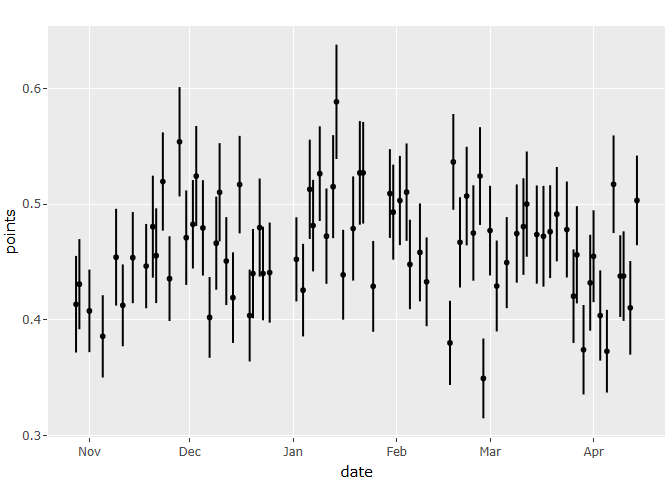
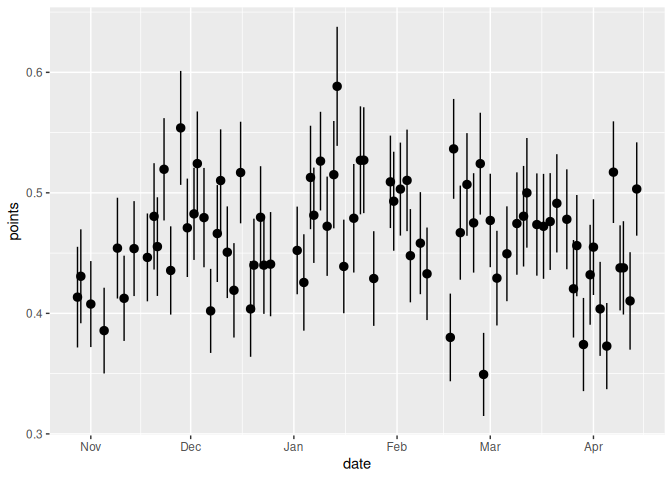
Re-build Rmarkdown files

diff --git a/README.html b/README.html
@@ -71,23 +71,15 @@ pre > code.sourceCode > span > a:first-child::before { text-decoration: underlin
 <script src="README_files/libs/bootstrap/bootstrap.min.js"></script>
 <link href="README_files/libs/bootstrap/bootstrap-icons.css" rel="stylesheet">
 <link href="README_files/libs/bootstrap/bootstrap-e7aef54abf3c3b600baac4692255d8cc.min.css" rel="stylesheet" append-hash="true" id="quarto-bootstrap" data-mode="light">
-<link href="README_files/libs/htmltools-fill-0.5.8.1/fill.css" rel="stylesheet">
-<script src="README_files/libs/htmlwidgets-1.6.4/htmlwidgets.js"></script>
-<script src="README_files/libs/plotly-binding-4.10.4/plotly.js"></script>
-<script src="README_files/libs/typedarray-0.1/typedarray.min.js"></script>
-<script src="README_files/libs/jquery-3.5.1/jquery.min.js"></script>
-<link href="README_files/libs/crosstalk-1.2.1/css/crosstalk.min.css" rel="stylesheet">
-<script src="README_files/libs/crosstalk-1.2.1/js/crosstalk.min.js"></script>
-<link href="README_files/libs/plotly-htmlwidgets-css-2.11.1/plotly-htmlwidgets.css" rel="stylesheet">
-<script src="README_files/libs/plotly-main-2.11.1/plotly-latest.min.js"></script>
 
 
 </head>
 
-<body class="fullcontent quarto-light">
+<body class="quarto-light">
 
 <div id="quarto-content" class="page-columns page-rows-contents page-layout-article">
-
+<div id="quarto-margin-sidebar" class="sidebar margin-sidebar">
+<div class="quarto-alternate-formats"><h2>Other Formats</h2><ul><li><a href="README.md"><i class="bi bi-file-code"></i>CommonMark</a></li><li><a href="README.pdf"><i class="bi bi-file-pdf"></i>PDF</a></li></ul></div></div>
 <main class="content" id="quarto-document-content">
 
 <header id="title-block-header" class="quarto-title-block default">
@@ -325,10 +317,13 @@ This warning is displayed once every 8 hours.</code></pre>
 <span id="cb9-6"><a href="#cb9-6" aria-hidden="true" tabindex="-1"></a>    <span class="fu">stat_summary</span>() <span class="sc">+</span></span>
 <span id="cb9-7"><a href="#cb9-7" aria-hidden="true" tabindex="-1"></a>    <span class="fu">scale_x_date</span>()</span>
 <span id="cb9-8"><a href="#cb9-8" aria-hidden="true" tabindex="-1"></a></span>
-<span id="cb9-9"><a href="#cb9-9" aria-hidden="true" tabindex="-1"></a><span class="fu">ggplotly</span>(p)</span></code><button title="Copy to Clipboard" class="code-copy-button"><i class="bi"></i></button></pre></div>
+<span id="cb9-9"><a href="#cb9-9" aria-hidden="true" tabindex="-1"></a>p</span></code><button title="Copy to Clipboard" class="code-copy-button"><i class="bi"></i></button></pre></div>
 <div class="cell-output-display">
-<div class="plotly html-widget html-fill-item" id="htmlwidget-334b650e542cd5a31a3e" style="width:100%;height:464px;"></div>
-<script type="application/json" data-for="htmlwidget-334b650e542cd5a31a3e">{"x":{"data":[{"x":[14180,14181,14184,14188,14192,14194,14197,14201,14203,14204,14206,14208,14211,14213,14215,14216,14218,14220,14222,14223,14225,14227,14229,14232,14233,14235,14236,14238,14246,14248,14250,14251,14253,14255,14257,14258,14260,14263,14265,14266,14269,14274,14275,14277,14279,14280,14283,14285,14292,14293,14295,14297,14299,14301,14302,14304,14306,14309,14312,14314,14315,14318,14320,14322,14324,14327,14329,14330,14332,14334,14335,14337,14339,14341,14343,14344,14346,14348],"y":[0.41346153846153844,0.43076923076923079,0.40770791075050711,0.38568588469184889,0.45411764705882351,0.41247484909456739,0.45372460496613998,0.44642857142857145,0.48048780487804876,0.45539906103286387,0.51954022988505744,0.43558282208588955,0.55388471177944865,0.47098214285714285,0.48254620123203285,0.52427184466019416,0.47945205479452052,0.4020408163265306,0.4662309368191721,0.51020408163265307,0.45073375262054505,0.4191343963553531,0.5168539325842697,0.40366972477064222,0.44,0.47971360381861577,0.44,0.44080604534005036,0.45222929936305734,0.42562929061784899,0.51276102088167053,0.48140043763676149,0.52631578947368418,0.47228381374722839,0.51507537688442206,0.58839050131926118,0.43892339544513459,0.47890818858560796,0.52699228791773778,0.52709359605911332,0.42890442890442892,0.50912778904665312,0.49305555555555558,0.50310559006211175,0.51034482758620692,0.44785276073619634,0.45823389021479716,0.43283582089552236,0.38004246284501064,0.53648068669527893,0.46694214876033058,0.50694444444444442,0.47505938242280282,0.52422907488986781,0.34931506849315069,0.47708333333333336,0.42922374429223742,0.449438202247191,0.47453703703703703,0.48058252427184467,0.5,0.47368421052631576,0.47222222222222221,0.47619047619047616,0.49130434782608695,0.47804878048780486,0.42039800995024873,0.45622119815668205,0.37413394919168591,0.43203883495145629,0.45495495495495497,0.40371229698375871,0.37284482758620691,0.51716247139588101,0.43775100401606426,0.43776824034334766,0.41031941031941033,0.50318471337579618],"text":["date: 2008-10-28<br />points: 0.4134615","date: 2008-10-29<br />points: 0.4307692","date: 2008-11-01<br />points: 0.4077079","date: 2008-11-05<br />points: 0.3856859","date: 2008-11-09<br />points: 0.4541176","date: 2008-11-11<br />points: 0.4124748","date: 2008-11-14<br />points: 0.4537246","date: 2008-11-18<br />points: 0.4464286","date: 2008-11-20<br />points: 0.4804878","date: 2008-11-21<br />points: 0.4553991","date: 2008-11-23<br />points: 0.5195402","date: 2008-11-25<br />points: 0.4355828","date: 2008-11-28<br />points: 0.5538847","date: 2008-11-30<br />points: 0.4709821","date: 2008-12-02<br />points: 0.4825462","date: 2008-12-03<br />points: 0.5242718","date: 2008-12-05<br />points: 0.4794521","date: 2008-12-07<br />points: 0.4020408","date: 2008-12-09<br />points: 0.4662309","date: 2008-12-10<br />points: 0.5102041","date: 2008-12-12<br />points: 0.4507338","date: 2008-12-14<br />points: 0.4191344","date: 2008-12-16<br />points: 0.5168539","date: 2008-12-19<br />points: 0.4036697","date: 2008-12-20<br />points: 0.4400000","date: 2008-12-22<br />points: 0.4797136","date: 2008-12-23<br />points: 0.4400000","date: 2008-12-25<br />points: 0.4408060","date: 2009-01-02<br />points: 0.4522293","date: 2009-01-04<br />points: 0.4256293","date: 2009-01-06<br />points: 0.5127610","date: 2009-01-07<br />points: 0.4814004","date: 2009-01-09<br />points: 0.5263158","date: 2009-01-11<br />points: 0.4722838","date: 2009-01-13<br />points: 0.5150754","date: 2009-01-14<br />points: 0.5883905","date: 2009-01-16<br />points: 0.4389234","date: 2009-01-19<br />points: 0.4789082","date: 2009-01-21<br />points: 0.5269923","date: 2009-01-22<br />points: 0.5270936","date: 2009-01-25<br />points: 0.4289044","date: 2009-01-30<br />points: 0.5091278","date: 2009-01-31<br />points: 0.4930556","date: 2009-02-02<br />points: 0.5031056","date: 2009-02-04<br />points: 0.5103448","date: 2009-02-05<br />points: 0.4478528","date: 2009-02-08<br />points: 0.4582339","date: 2009-02-10<br />points: 0.4328358","date: 2009-02-17<br />points: 0.3800425","date: 2009-02-18<br />points: 0.5364807","date: 2009-02-20<br />points: 0.4669421","date: 2009-02-22<br />points: 0.5069444","date: 2009-02-24<br />points: 0.4750594","date: 2009-02-26<br />points: 0.5242291","date: 2009-02-27<br />points: 0.3493151","date: 2009-03-01<br />points: 0.4770833","date: 2009-03-03<br />points: 0.4292237","date: 2009-03-06<br />points: 0.4494382","date: 2009-03-09<br />points: 0.4745370","date: 2009-03-11<br />points: 0.4805825","date: 2009-03-12<br />points: 0.5000000","date: 2009-03-15<br />points: 0.4736842","date: 2009-03-17<br />points: 0.4722222","date: 2009-03-19<br />points: 0.4761905","date: 2009-03-21<br />points: 0.4913043","date: 2009-03-24<br />points: 0.4780488","date: 2009-03-26<br />points: 0.4203980","date: 2009-03-27<br />points: 0.4562212","date: 2009-03-29<br />points: 0.3741339","date: 2009-03-31<br />points: 0.4320388","date: 2009-04-01<br />points: 0.4549550","date: 2009-04-03<br />points: 0.4037123","date: 2009-04-05<br />points: 0.3728448","date: 2009-04-07<br />points: 0.5171625","date: 2009-04-09<br />points: 0.4377510","date: 2009-04-10<br />points: 0.4377682","date: 2009-04-12<br />points: 0.4103194","date: 2009-04-14<br />points: 0.5031847"],"type":"scatter","mode":"lines+markers","opacity":1,"line":{"color":"transparent"},"error_y":{"array":[0.041747385040213858,0.038961269160521339,0.035695121270203745,0.035553298667335087,0.041833352472892216,0.035372697852401602,0.039389625801300787,0.036435760694776664,0.04411478519723222,0.040953330357647644,0.042473941936935211,0.036631986330809163,0.047253737398691431,0.040816435208324175,0.038212485224739634,0.043250764118109575,0.041226295925009204,0.034897045162071649,0.040229537314988184,0.042482979580941493,0.038013277456925565,0.03916091285283263,0.042155914690145013,0.039702184615609759,0.038575570208644383,0.042380758124605122,0.040441514477449314,0.043234118544789146,0.036360809983665698,0.039998802804252998,0.042937504347402178,0.039557559202225645,0.040935902025484139,0.041194504214654759,0.044536832045193542,0.04941257860860826,0.038826160901705931,0.045034866517734307,0.044802959171360346,0.043921524897803321,0.039264970794798459,0.038375596547178259,0.041064818508374956,0.038592972776423151,0.042105671718264293,0.038674192170747357,0.042343121931081529,0.038369152015531705,0.036379269256703428,0.041426846593171973,0.039049538115478066,0.042605381349669069,0.04125807743048665,0.042256556829378566,0.034479838381011374,0.038778536121425622,0.039278809360850153,0.039361255439236409,0.0424627423778004,0.041727956259635102,0.045495624503698595,0.042425774005251105,0.043552046415659018,0.040144521999890492,0.04077056971504317,0.041463940811821032,0.040464844091995911,0.042011008366174551,0.038647360709569811,0.041461920165585142,0.039706070018506456,0.038990807434544139,0.035745385384423234,0.042188448978093818,0.035308899545694994,0.038709588290521235,0.040458024663864667,0.038711763543219924],"arrayminus":[0.041747385040213858,0.038961269160521339,0.035695121270203745,0.035553298667335087,0.041833352472892216,0.035372697852401602,0.039389625801300787,0.036435760694776664,0.04411478519723222,0.040953330357647644,0.042473941936935267,0.036631986330809163,0.047253737398691431,0.040816435208324175,0.03821248522473969,0.043250764118109575,0.041226295925009204,0.034897045162071649,0.040229537314988129,0.042482979580941493,0.038013277456925565,0.03916091285283263,0.042155914690144958,0.039702184615609759,0.038575570208644383,0.042380758124605122,0.040441514477449314,0.043234118544789146,0.036360809983665698,0.039998802804252998,0.042937504347402178,0.039557559202225645,0.040935902025484194,0.041194504214654759,0.044536832045193597,0.04941257860860826,0.038826160901705931,0.045034866517734307,0.044802959171360401,0.043921524897803266,0.039264970794798459,0.038375596547178203,0.041064818508375012,0.038592972776423151,0.042105671718264293,0.038674192170747357,0.042343121931081584,0.038369152015531705,0.036379269256703428,0.041426846593172029,0.039049538115478066,0.042605381349669125,0.041258077430486706,0.042256556829378566,0.034479838381011374,0.038778536121425677,0.039278809360850153,0.039361255439236409,0.0424627423778004,0.041727956259635102,0.045495624503698595,0.042425774005251105,0.043552046415659018,0.040144521999890492,0.04077056971504317,0.041463940811820976,0.040464844091995911,0.042011008366174551,0.038647360709569811,0.041461920165585142,0.039706070018506456,0.038990807434544139,0.035745385384423234,0.042188448978093818,0.035308899545694994,0.038709588290521235,0.040458024663864667,0.038711763543219979],"type":"data","width":0,"symmetric":false,"color":"rgba(0,0,0,1)"},"showlegend":false,"xaxis":"x","yaxis":"y","hoverinfo":"text","marker":{"autocolorscale":false,"color":"rgba(0,0,0,1)","opacity":1,"size":1.8897637795275593,"symbol":"circle","line":{"width":3.7795275590551185,"color":"rgba(0,0,0,1)"}},"hoveron":"points","frame":null}],"layout":{"margin":{"t":26.228310502283104,"r":7.3059360730593621,"b":40.182648401826491,"l":43.105022831050235},"plot_bgcolor":"rgba(235,235,235,1)","paper_bgcolor":"rgba(255,255,255,1)","font":{"color":"rgba(0,0,0,1)","family":"","size":14.611872146118724},"xaxis":{"domain":[0,1],"automargin":true,"type":"linear","autorange":false,"range":[14171.6,14356.4],"tickmode":"array","ticktext":["Nov","Dec","Jan","Feb","Mar","Apr"],"tickvals":[14184,14214,14245,14276,14304,14335],"categoryorder":"array","categoryarray":["Nov","Dec","Jan","Feb","Mar","Apr"],"nticks":null,"ticks":"outside","tickcolor":"rgba(51,51,51,1)","ticklen":3.6529680365296811,"tickwidth":0.66417600664176002,"showticklabels":true,"tickfont":{"color":"rgba(77,77,77,1)","family":"","size":11.68949771689498},"tickangle":-0,"showline":false,"linecolor":null,"linewidth":0,"showgrid":true,"gridcolor":"rgba(255,255,255,1)","gridwidth":0.66417600664176002,"zeroline":false,"anchor":"y","title":{"text":"date","font":{"color":"rgba(0,0,0,1)","family":"","size":14.611872146118724}},"hoverformat":".2f"},"yaxis":{"domain":[0,1],"automargin":true,"type":"linear","autorange":false,"range":[0.29868683762135284,0.65395147241865592],"tickmode":"array","ticktext":["0.3","0.4","0.5","0.6"],"tickvals":[0.30000000000000004,0.40000000000000002,0.5,0.60000000000000009],"categoryorder":"array","categoryarray":["0.3","0.4","0.5","0.6"],"nticks":null,"ticks":"outside","tickcolor":"rgba(51,51,51,1)","ticklen":3.6529680365296811,"tickwidth":0.66417600664176002,"showticklabels":true,"tickfont":{"color":"rgba(77,77,77,1)","family":"","size":11.68949771689498},"tickangle":-0,"showline":false,"linecolor":null,"linewidth":0,"showgrid":true,"gridcolor":"rgba(255,255,255,1)","gridwidth":0.66417600664176002,"zeroline":false,"anchor":"x","title":{"text":"points","font":{"color":"rgba(0,0,0,1)","family":"","size":14.611872146118724}},"hoverformat":".2f"},"shapes":[{"type":"rect","fillcolor":null,"line":{"color":null,"width":0,"linetype":[]},"yref":"paper","xref":"paper","x0":0,"x1":1,"y0":0,"y1":1}],"showlegend":false,"legend":{"bgcolor":"rgba(255,255,255,1)","bordercolor":"transparent","borderwidth":1.8897637795275593,"font":{"color":"rgba(0,0,0,1)","family":"","size":11.68949771689498}},"hovermode":"closest","barmode":"relative"},"config":{"doubleClick":"reset","modeBarButtonsToAdd":["hoverclosest","hovercompare"],"showSendToCloud":false},"source":"A","attrs":{"23af284ee38b":{"x":{},"y":{},"type":"scatter"}},"cur_data":"23af284ee38b","visdat":{"23af284ee38b":["function (y) ","x"]},"highlight":{"on":"plotly_click","persistent":false,"dynamic":false,"selectize":false,"opacityDim":0.20000000000000001,"selected":{"opacity":1},"debounce":0},"shinyEvents":["plotly_hover","plotly_click","plotly_selected","plotly_relayout","plotly_brushed","plotly_brushing","plotly_clickannotation","plotly_doubleclick","plotly_deselect","plotly_afterplot","plotly_sunburstclick"],"base_url":"https://plot.ly"},"evals":[],"jsHooks":[]}</script>
+<div>
+<figure class="figure">
+<p><img src="README_files/figure-html/unnamed-chunk-8-1.png" class="img-fluid figure-img" width="672"></p>
+</figure>
+</div>
 </div>
 </div>
 

diff --git a/README.md b/README.md
@@ -2,17 +2,6 @@
 Athos Petri Damiani
 2025-06-03
 
-<link href="README_files/libs/htmltools-fill-0.5.8.1/fill.css" rel="stylesheet" />
-<script src="README_files/libs/htmlwidgets-1.6.4/htmlwidgets.js"></script>
-<script src="README_files/libs/plotly-binding-4.10.4/plotly.js"></script>
-<script src="README_files/libs/typedarray-0.1/typedarray.min.js"></script>
-<script src="README_files/libs/jquery-3.5.1/jquery.min.js"></script>
-<link href="README_files/libs/crosstalk-1.2.1/css/crosstalk.min.css" rel="stylesheet" />
-<script src="README_files/libs/crosstalk-1.2.1/js/crosstalk.min.js"></script>
-<link href="README_files/libs/plotly-htmlwidgets-css-2.11.1/plotly-htmlwidgets.css" rel="stylesheet" />
-<script src="README_files/libs/plotly-main-2.11.1/plotly-latest.min.js"></script>
-
-
 ``` r
 Sys.getenv("TESTE", "nao encontrou o env TESTE")
 ```
@@ -212,8 +201,7 @@ p <- lakers |>
     stat_summary() +
     scale_x_date()
 
-ggplotly(p)
+p
 ```
 
-<div class="plotly html-widget html-fill-item" id="htmlwidget-4fcf179efe1d18906124" style="width:672px;height:480px;"></div>
-<script type="application/json" data-for="htmlwidget-4fcf179efe1d18906124">{"x":{"data":[{"x":[14180,14181,14184,14188,14192,14194,14197,14201,14203,14204,14206,14208,14211,14213,14215,14216,14218,14220,14222,14223,14225,14227,14229,14232,14233,14235,14236,14238,14246,14248,14250,14251,14253,14255,14257,14258,14260,14263,14265,14266,14269,14274,14275,14277,14279,14280,14283,14285,14292,14293,14295,14297,14299,14301,14302,14304,14306,14309,14312,14314,14315,14318,14320,14322,14324,14327,14329,14330,14332,14334,14335,14337,14339,14341,14343,14344,14346,14348],"y":[0.41346153846153844,0.43076923076923079,0.40770791075050711,0.38568588469184889,0.45411764705882351,0.41247484909456739,0.45372460496613998,0.44642857142857145,0.48048780487804876,0.45539906103286387,0.51954022988505744,0.43558282208588955,0.55388471177944865,0.47098214285714285,0.48254620123203285,0.52427184466019416,0.47945205479452052,0.4020408163265306,0.4662309368191721,0.51020408163265307,0.45073375262054505,0.4191343963553531,0.5168539325842697,0.40366972477064222,0.44,0.47971360381861577,0.44,0.44080604534005036,0.45222929936305734,0.42562929061784899,0.51276102088167053,0.48140043763676149,0.52631578947368418,0.47228381374722839,0.51507537688442206,0.58839050131926118,0.43892339544513459,0.47890818858560796,0.52699228791773778,0.52709359605911332,0.42890442890442892,0.50912778904665312,0.49305555555555558,0.50310559006211175,0.51034482758620692,0.44785276073619634,0.45823389021479716,0.43283582089552236,0.38004246284501064,0.53648068669527893,0.46694214876033058,0.50694444444444442,0.47505938242280282,0.52422907488986781,0.34931506849315069,0.47708333333333336,0.42922374429223742,0.449438202247191,0.47453703703703703,0.48058252427184467,0.5,0.47368421052631576,0.47222222222222221,0.47619047619047616,0.49130434782608695,0.47804878048780486,0.42039800995024873,0.45622119815668205,0.37413394919168591,0.43203883495145629,0.45495495495495497,0.40371229698375871,0.37284482758620691,0.51716247139588101,0.43775100401606426,0.43776824034334766,0.41031941031941033,0.50318471337579618],"text":["date: 2008-10-28<br />points: 0.4134615","date: 2008-10-29<br />points: 0.4307692","date: 2008-11-01<br />points: 0.4077079","date: 2008-11-05<br />points: 0.3856859","date: 2008-11-09<br />points: 0.4541176","date: 2008-11-11<br />points: 0.4124748","date: 2008-11-14<br />points: 0.4537246","date: 2008-11-18<br />points: 0.4464286","date: 2008-11-20<br />points: 0.4804878","date: 2008-11-21<br />points: 0.4553991","date: 2008-11-23<br />points: 0.5195402","date: 2008-11-25<br />points: 0.4355828","date: 2008-11-28<br />points: 0.5538847","date: 2008-11-30<br />points: 0.4709821","date: 2008-12-02<br />points: 0.4825462","date: 2008-12-03<br />points: 0.5242718","date: 2008-12-05<br />points: 0.4794521","date: 2008-12-07<br />points: 0.4020408","date: 2008-12-09<br />points: 0.4662309","date: 2008-12-10<br />points: 0.5102041","date: 2008-12-12<br />points: 0.4507338","date: 2008-12-14<br />points: 0.4191344","date: 2008-12-16<br />points: 0.5168539","date: 2008-12-19<br />points: 0.4036697","date: 2008-12-20<br />points: 0.4400000","date: 2008-12-22<br />points: 0.4797136","date: 2008-12-23<br />points: 0.4400000","date: 2008-12-25<br />points: 0.4408060","date: 2009-01-02<br />points: 0.4522293","date: 2009-01-04<br />points: 0.4256293","date: 2009-01-06<br />points: 0.5127610","date: 2009-01-07<br />points: 0.4814004","date: 2009-01-09<br />points: 0.5263158","date: 2009-01-11<br />points: 0.4722838","date: 2009-01-13<br />points: 0.5150754","date: 2009-01-14<br />points: 0.5883905","date: 2009-01-16<br />points: 0.4389234","date: 2009-01-19<br />points: 0.4789082","date: 2009-01-21<br />points: 0.5269923","date: 2009-01-22<br />points: 0.5270936","date: 2009-01-25<br />points: 0.4289044","date: 2009-01-30<br />points: 0.5091278","date: 2009-01-31<br />points: 0.4930556","date: 2009-02-02<br />points: 0.5031056","date: 2009-02-04<br />points: 0.5103448","date: 2009-02-05<br />points: 0.4478528","date: 2009-02-08<br />points: 0.4582339","date: 2009-02-10<br />points: 0.4328358","date: 2009-02-17<br />points: 0.3800425","date: 2009-02-18<br />points: 0.5364807","date: 2009-02-20<br />points: 0.4669421","date: 2009-02-22<br />points: 0.5069444","date: 2009-02-24<br />points: 0.4750594","date: 2009-02-26<br />points: 0.5242291","date: 2009-02-27<br />points: 0.3493151","date: 2009-03-01<br />points: 0.4770833","date: 2009-03-03<br />points: 0.4292237","date: 2009-03-06<br />points: 0.4494382","date: 2009-03-09<br />points: 0.4745370","date: 2009-03-11<br />points: 0.4805825","date: 2009-03-12<br />points: 0.5000000","date: 2009-03-15<br />points: 0.4736842","date: 2009-03-17<br />points: 0.4722222","date: 2009-03-19<br />points: 0.4761905","date: 2009-03-21<br />points: 0.4913043","date: 2009-03-24<br />points: 0.4780488","date: 2009-03-26<br />points: 0.4203980","date: 2009-03-27<br />points: 0.4562212","date: 2009-03-29<br />points: 0.3741339","date: 2009-03-31<br />points: 0.4320388","date: 2009-04-01<br />points: 0.4549550","date: 2009-04-03<br />points: 0.4037123","date: 2009-04-05<br />points: 0.3728448","date: 2009-04-07<br />points: 0.5171625","date: 2009-04-09<br />points: 0.4377510","date: 2009-04-10<br />points: 0.4377682","date: 2009-04-12<br />points: 0.4103194","date: 2009-04-14<br />points: 0.5031847"],"type":"scatter","mode":"lines+markers","opacity":1,"line":{"color":"transparent"},"error_y":{"array":[0.041747385040213858,0.038961269160521339,0.035695121270203745,0.035553298667335087,0.041833352472892216,0.035372697852401602,0.039389625801300787,0.036435760694776664,0.04411478519723222,0.040953330357647644,0.042473941936935211,0.036631986330809163,0.047253737398691431,0.040816435208324175,0.038212485224739634,0.043250764118109575,0.041226295925009204,0.034897045162071649,0.040229537314988184,0.042482979580941493,0.038013277456925565,0.03916091285283263,0.042155914690145013,0.039702184615609759,0.038575570208644383,0.042380758124605122,0.040441514477449314,0.043234118544789146,0.036360809983665698,0.039998802804252998,0.042937504347402178,0.039557559202225645,0.040935902025484139,0.041194504214654759,0.044536832045193542,0.04941257860860826,0.038826160901705931,0.045034866517734307,0.044802959171360346,0.043921524897803321,0.039264970794798459,0.038375596547178259,0.041064818508374956,0.038592972776423151,0.042105671718264293,0.038674192170747357,0.042343121931081529,0.038369152015531705,0.036379269256703428,0.041426846593171973,0.039049538115478066,0.042605381349669069,0.04125807743048665,0.042256556829378566,0.034479838381011374,0.038778536121425622,0.039278809360850153,0.039361255439236409,0.0424627423778004,0.041727956259635102,0.045495624503698595,0.042425774005251105,0.043552046415659018,0.040144521999890492,0.04077056971504317,0.041463940811821032,0.040464844091995911,0.042011008366174551,0.038647360709569811,0.041461920165585142,0.039706070018506456,0.038990807434544139,0.035745385384423234,0.042188448978093818,0.035308899545694994,0.038709588290521235,0.040458024663864667,0.038711763543219924],"arrayminus":[0.041747385040213858,0.038961269160521339,0.035695121270203745,0.035553298667335087,0.041833352472892216,0.035372697852401602,0.039389625801300787,0.036435760694776664,0.04411478519723222,0.040953330357647644,0.042473941936935267,0.036631986330809163,0.047253737398691431,0.040816435208324175,0.03821248522473969,0.043250764118109575,0.041226295925009204,0.034897045162071649,0.040229537314988129,0.042482979580941493,0.038013277456925565,0.03916091285283263,0.042155914690144958,0.039702184615609759,0.038575570208644383,0.042380758124605122,0.040441514477449314,0.043234118544789146,0.036360809983665698,0.039998802804252998,0.042937504347402178,0.039557559202225645,0.040935902025484194,0.041194504214654759,0.044536832045193597,0.04941257860860826,0.038826160901705931,0.045034866517734307,0.044802959171360401,0.043921524897803266,0.039264970794798459,0.038375596547178203,0.041064818508375012,0.038592972776423151,0.042105671718264293,0.038674192170747357,0.042343121931081584,0.038369152015531705,0.036379269256703428,0.041426846593172029,0.039049538115478066,0.042605381349669125,0.041258077430486706,0.042256556829378566,0.034479838381011374,0.038778536121425677,0.039278809360850153,0.039361255439236409,0.0424627423778004,0.041727956259635102,0.045495624503698595,0.042425774005251105,0.043552046415659018,0.040144521999890492,0.04077056971504317,0.041463940811820976,0.040464844091995911,0.042011008366174551,0.038647360709569811,0.041461920165585142,0.039706070018506456,0.038990807434544139,0.035745385384423234,0.042188448978093818,0.035308899545694994,0.038709588290521235,0.040458024663864667,0.038711763543219979],"type":"data","width":0,"symmetric":false,"color":"rgba(0,0,0,1)"},"showlegend":false,"xaxis":"x","yaxis":"y","hoverinfo":"text","marker":{"autocolorscale":false,"color":"rgba(0,0,0,1)","opacity":1,"size":1.8897637795275593,"symbol":"circle","line":{"width":3.7795275590551185,"color":"rgba(0,0,0,1)"}},"hoveron":"points","frame":null}],"layout":{"margin":{"t":26.228310502283104,"r":7.3059360730593621,"b":40.182648401826491,"l":43.105022831050235},"plot_bgcolor":"rgba(235,235,235,1)","paper_bgcolor":"rgba(255,255,255,1)","font":{"color":"rgba(0,0,0,1)","family":"","size":14.611872146118724},"xaxis":{"domain":[0,1],"automargin":true,"type":"linear","autorange":false,"range":[14171.6,14356.4],"tickmode":"array","ticktext":["Nov","Dec","Jan","Feb","Mar","Apr"],"tickvals":[14184,14214,14245,14276,14304,14335],"categoryorder":"array","categoryarray":["Nov","Dec","Jan","Feb","Mar","Apr"],"nticks":null,"ticks":"outside","tickcolor":"rgba(51,51,51,1)","ticklen":3.6529680365296811,"tickwidth":0.66417600664176002,"showticklabels":true,"tickfont":{"color":"rgba(77,77,77,1)","family":"","size":11.68949771689498},"tickangle":-0,"showline":false,"linecolor":null,"linewidth":0,"showgrid":true,"gridcolor":"rgba(255,255,255,1)","gridwidth":0.66417600664176002,"zeroline":false,"anchor":"y","title":{"text":"date","font":{"color":"rgba(0,0,0,1)","family":"","size":14.611872146118724}},"hoverformat":".2f"},"yaxis":{"domain":[0,1],"automargin":true,"type":"linear","autorange":false,"range":[0.29868683762135284,0.65395147241865592],"tickmode":"array","ticktext":["0.3","0.4","0.5","0.6"],"tickvals":[0.30000000000000004,0.40000000000000002,0.5,0.60000000000000009],"categoryorder":"array","categoryarray":["0.3","0.4","0.5","0.6"],"nticks":null,"ticks":"outside","tickcolor":"rgba(51,51,51,1)","ticklen":3.6529680365296811,"tickwidth":0.66417600664176002,"showticklabels":true,"tickfont":{"color":"rgba(77,77,77,1)","family":"","size":11.68949771689498},"tickangle":-0,"showline":false,"linecolor":null,"linewidth":0,"showgrid":true,"gridcolor":"rgba(255,255,255,1)","gridwidth":0.66417600664176002,"zeroline":false,"anchor":"x","title":{"text":"points","font":{"color":"rgba(0,0,0,1)","family":"","size":14.611872146118724}},"hoverformat":".2f"},"shapes":[{"type":"rect","fillcolor":null,"line":{"color":null,"width":0,"linetype":[]},"yref":"paper","xref":"paper","x0":0,"x1":1,"y0":0,"y1":1}],"showlegend":false,"legend":{"bgcolor":"rgba(255,255,255,1)","bordercolor":"transparent","borderwidth":1.8897637795275593,"font":{"color":"rgba(0,0,0,1)","family":"","size":11.68949771689498}},"hovermode":"closest","barmode":"relative"},"config":{"doubleClick":"reset","modeBarButtonsToAdd":["hoverclosest","hovercompare"],"showSendToCloud":false},"source":"A","attrs":{"23dc5d3fb5f0":{"x":{},"y":{},"type":"scatter"}},"cur_data":"23dc5d3fb5f0","visdat":{"23dc5d3fb5f0":["function (y) ","x"]},"highlight":{"on":"plotly_click","persistent":false,"dynamic":false,"selectize":false,"opacityDim":0.20000000000000001,"selected":{"opacity":1},"debounce":0},"shinyEvents":["plotly_hover","plotly_click","plotly_selected","plotly_relayout","plotly_brushed","plotly_brushing","plotly_clickannotation","plotly_doubleclick","plotly_deselect","plotly_afterplot","plotly_sunburstclick"],"base_url":"https://plot.ly"},"evals":[],"jsHooks":[]}</script>
+![](README.markdown_strict_files/figure-markdown_strict/unnamed-chunk-8-1.png)
